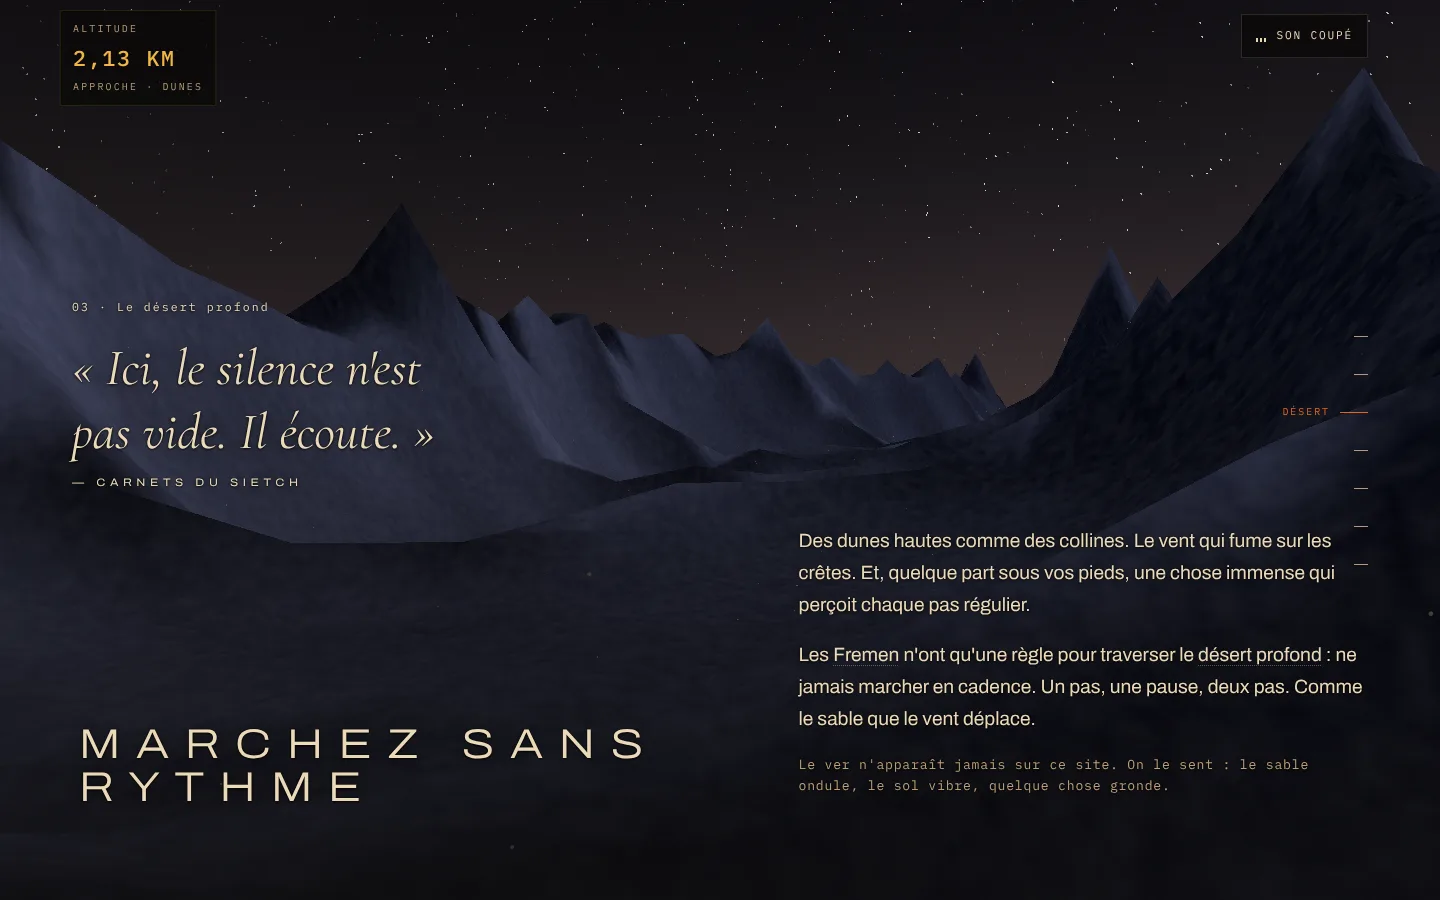
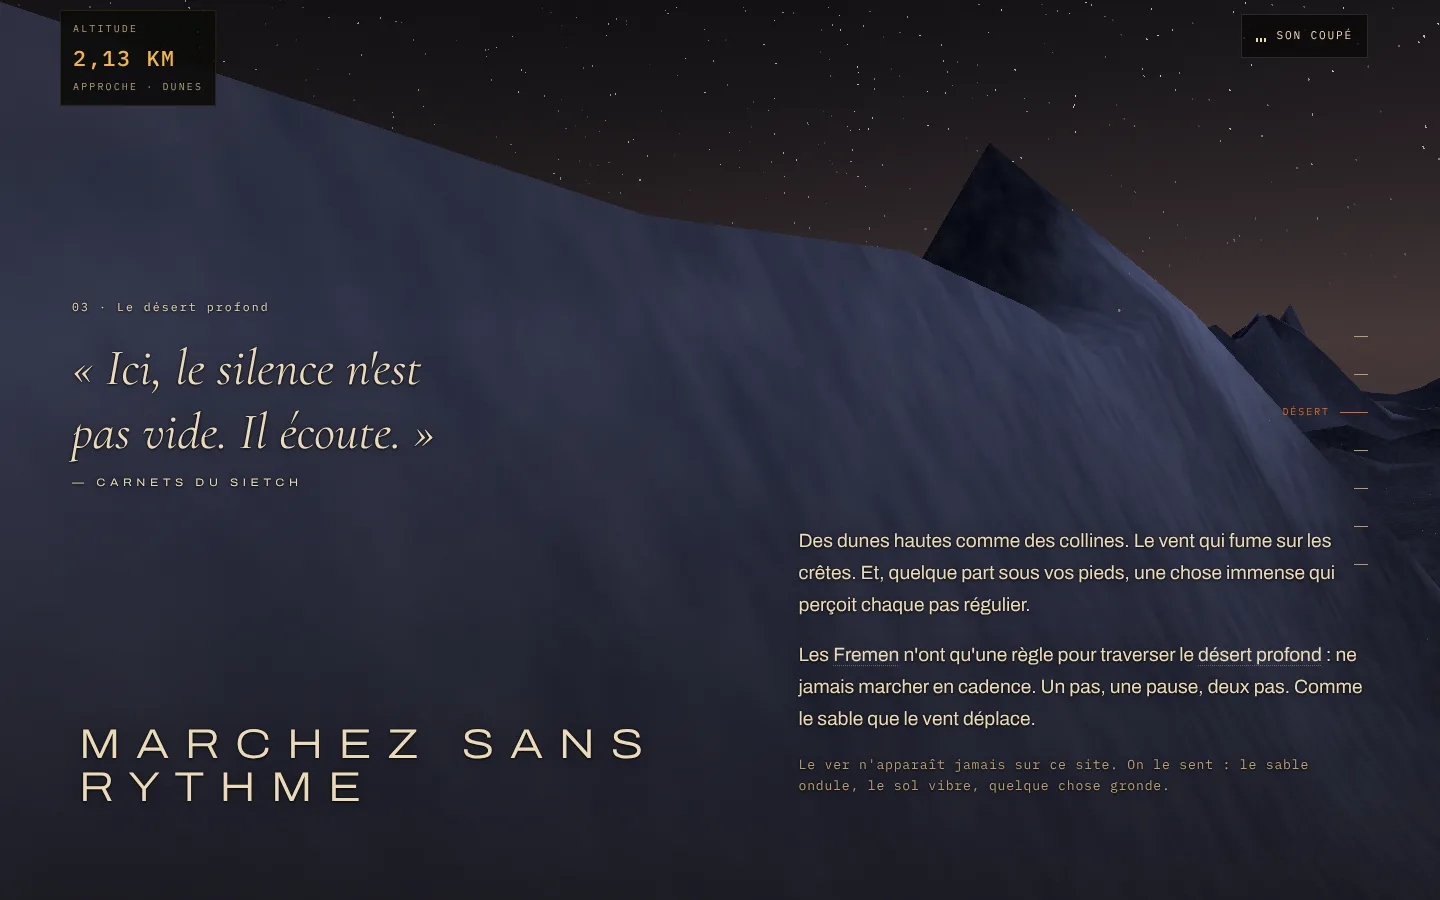
tempête : poussière et brouillard teintés par le ciel réel (jour cuivré, crépuscule brun, nuit sombre) ; captures de ciel refaites
Claude-Session: https://claude.ai/code/session_01U1pct5BcuW4HXt57W7n8JT

diff --git a/src/world/createWorld.ts b/src/world/createWorld.ts
@@ -232,10 +232,12 @@ export function createWorld(canvas: HTMLCanvasElement, { tier }: WorldOptions): 
   space.add(planetShine);
 
   /* ------------------------------------------------------------------ Tempête de poussière */
+  /* La poussière suit la lumière du ciel réel : cuivrée le jour, brune au crépuscule, presque éteinte la nuit. */
+  const STORM_TINT: Record<string, [number, number, number]> = { day: [0.86, 0.58, 0.30], dusk: [0.78, 0.48, 0.25], night: [0.40, 0.29, 0.20] };
   const stormCount = high ? 9000 : 2600;
   const stormMat = keep(new THREE.ShaderMaterial({
     vertexShader: PARTICLE_VERT, fragmentShader: PARTICLE_FRAG, transparent: true, depthWrite: false,
-    uniforms: { uTime: { value: 0 }, uAlpha: { value: 0 }, uSpeed: { value: 55 }, uDir: { value: new THREE.Vector3(1, -0.15, 0.1).normalize() }, uSpan: { value: 180 }, uPixelRatio: { value: pixelRatio }, uColor: { value: new THREE.Color(0.86, 0.58, 0.30) } },
+    uniforms: { uTime: { value: 0 }, uAlpha: { value: 0 }, uSpeed: { value: 55 }, uDir: { value: new THREE.Vector3(1, -0.15, 0.1).normalize() }, uSpan: { value: 180 }, uPixelRatio: { value: pixelRatio }, uColor: { value: new THREE.Color(...(STORM_TINT[skyName] ?? STORM_TINT.night)) } },
   }));
   const storm = new THREE.Points(keep(particleGeometry(stormCount, new THREE.Vector3(180, 120, 160), rand, 1.6, 6.0)), stormMat);
   storm.frustumCulled = false;
@@ -301,7 +303,8 @@ export function createWorld(canvas: HTMLCanvasElement, { tier }: WorldOptions): 
   const skyFog: Record<string, number> = { day: 0xcfb48c, dusk: 0x8a4a24, night: 0x0a0d1c };
   const desertFog = new THREE.Color(skyFog[skyName] ?? skyFog.night);
   const spaceFog = new THREE.Color(0x05040a);
-  const stormFog = new THREE.Color(0x9a6232);
+  const stormFogBySky: Record<string, number> = { day: 0x9a6232, dusk: 0x74421f, night: 0x2a1c14 };
+  const stormFog = new THREE.Color(stormFogBySky[skyName] ?? stormFogBySky.night);
   let raf = 0;
   let running = true;
   let lost = false;

diff --git a/docs/BIBLE.md b/docs/BIBLE.md
@@ -62,6 +62,7 @@ g) Ciel réel : selon l'heure locale, jour écrasant, crépuscule, nuit aux deux
 - 2026-10-18 — Le monde WebGL n'est jamais sur le chemin critique : chargé à la sortie de l'intro ou après « load ».
 - 2026-10-18 — Dans le désert, la caméra suit le creux de la vallée entre deux dunes et ne passe jamais sous le sable (formule des dunes portée sur le processeur, `src/world/dunes.ts`, à garder identique au nuanceur).
 - 2026-10-18 — Le monde WebGL ne démarre que quand le visiteur est là : sortie de l'intro, premier geste (souris, molette, doigt, clavier) ou six secondes de calme après le chargement (`components/world/World.tsx`). Avant : « chargement + 1,2 s », qui tombait dans la trace de Lighthouse ; sans carte graphique, chaque image rendue par logiciel devenait une tâche longue (TBT 4 950 ms, performance 62). Après : TBT 180-210 ms, performance 89 sur deux mesures. Un robot de mesure voit la version calme, complète.
+- 2026-10-18 — La tempête de poussière suit le ciel réel (teinte des particules et du brouillard : cuivrée le jour, brune au crépuscule, presque éteinte la nuit) : plus de mur orange avant des dunes bleu nuit.
 - 2026-10-18 — Crêtes des dunes adoucies (exposant des arêtes 1,6 et 2,0 au lieu de 2,2 et 2,6, dans `src/world/dunes.ts` ET `DUNE_FN` de `shaders.ts`, toujours identiques) : une chaîne de dunes plutôt que des aiguilles.
 - 2026-10-18 — Tout lissage du monde (caméra, chemin de la vallée, ver, prescience) est corrigé par le temps écoulé (`sm(k)` dans `createWorld.ts`) : il converge en secondes, pas en images — même descente à 30, 60 ou 120 images/s. Les captures sous rendu logiciel (SwiftShader, quelques images par seconde) se font avec `--wait=4000` au moins.
 
